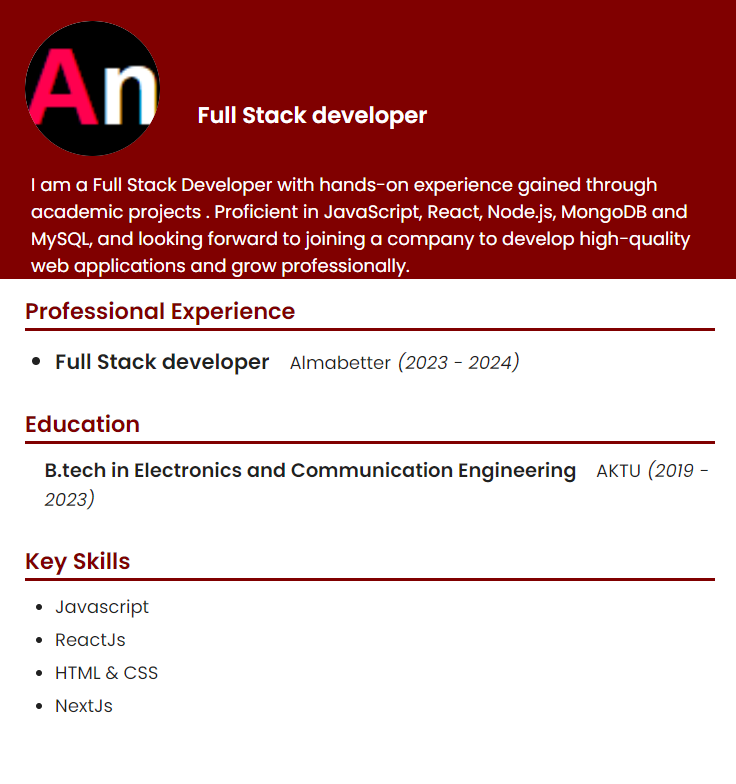
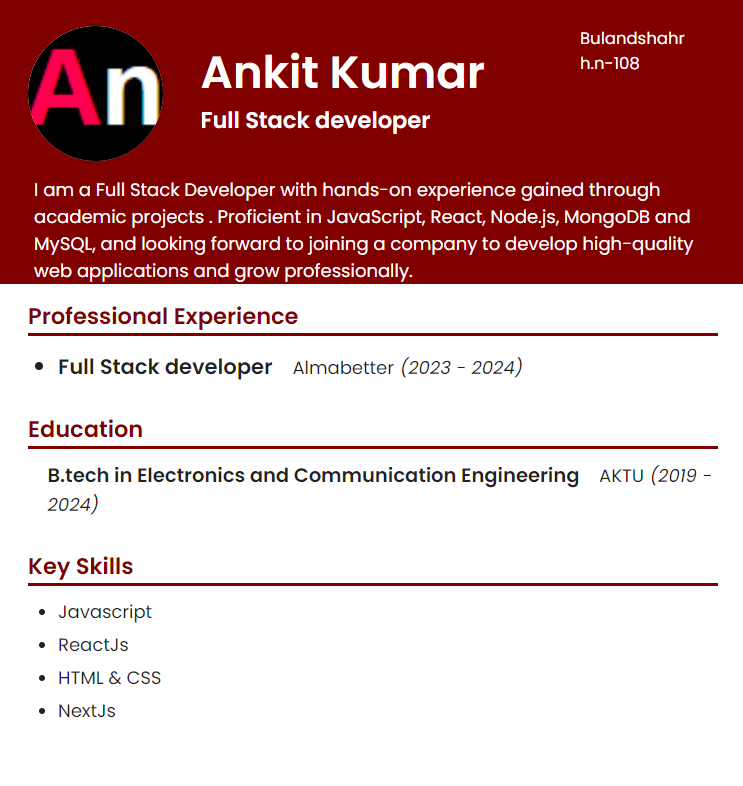
first commit

diff --git a/src/Styles/TemplatePreview.css b/src/Styles/TemplatePreview.css
@@ -37,3 +37,35 @@
     display: flex;
     align-items: center;
   }
+
+  @media (max-width: 500px) {
+    .resume-preview-grid-container {
+      grid-template-columns: 1fr;
+    }
+  
+    .resume-preview-grid-item {
+      display: flex;
+      flex-direction: column;
+      align-items: center;
+    }
+  
+    .MuiFormControl-root.MuiTextField-root.resume-name-field {
+      width: 70%;
+    }
+  
+    .resume-preview-grid-item .resume-save-container {
+      display: flex;
+      flex-direction: column;
+      align-items: center;
+    }
+  
+    .resume-preview-grid-item .resume-save-container .resume-back-next-container {
+      flex-direction: column;
+    }
+  
+    .resume-back-next-container .outlined-btn,
+    .resume-back-next-container .contained-btn {
+      width: 100%;
+      margin: 5px 0;
+    }
+  }

diff --git a/src/Templates/Template1.js b/src/Templates/Template1.js
@@ -43,7 +43,7 @@ const Template1 = (props) => {
       elevation={3}>
       <TemplateHeader
      
-        primaryColor={" #800000"}
+        primaryColor={"white"}
         secondaryColor={"white"}
         bgColor={"#800000"}
         personalInfo={personalinfo}
